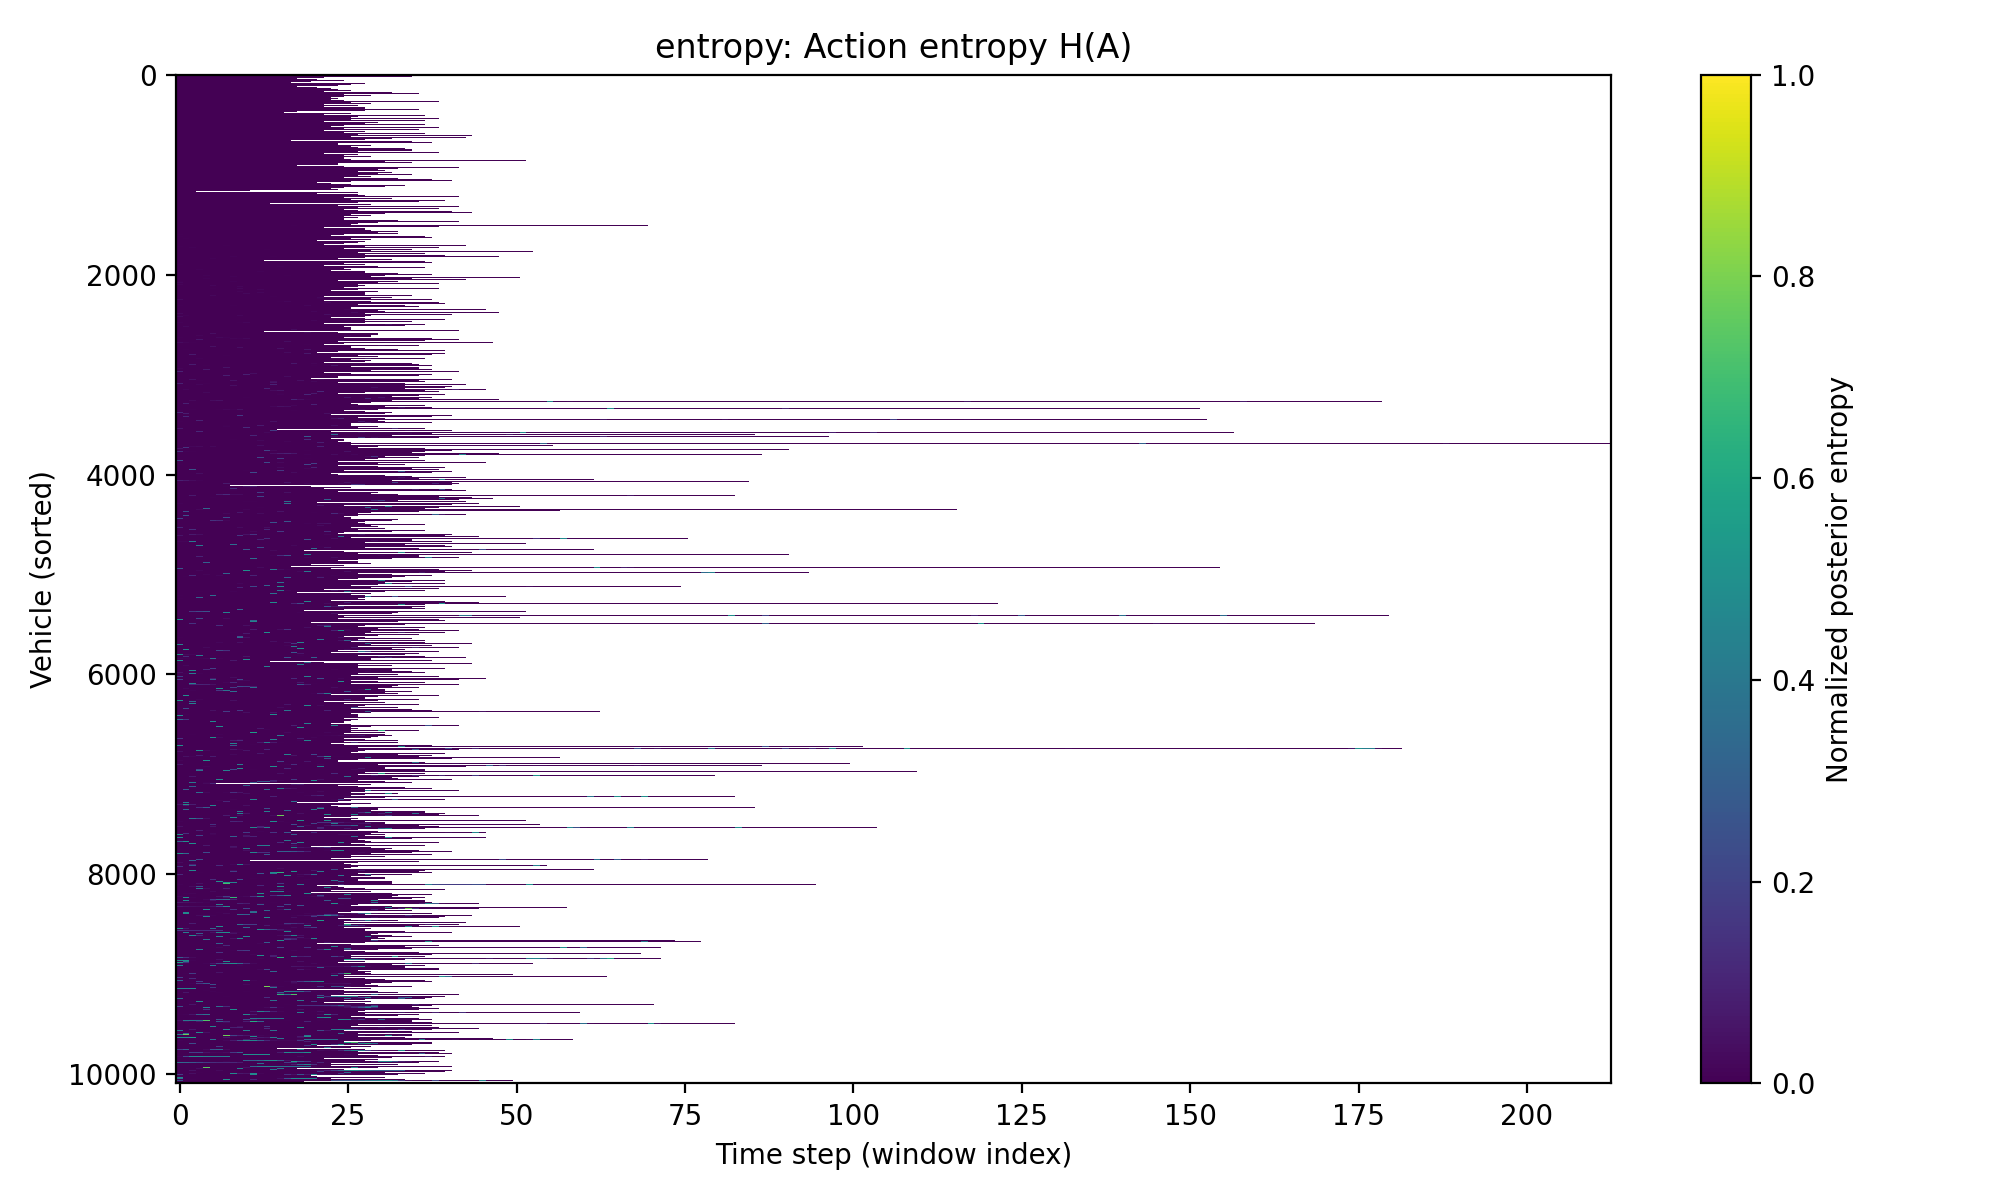
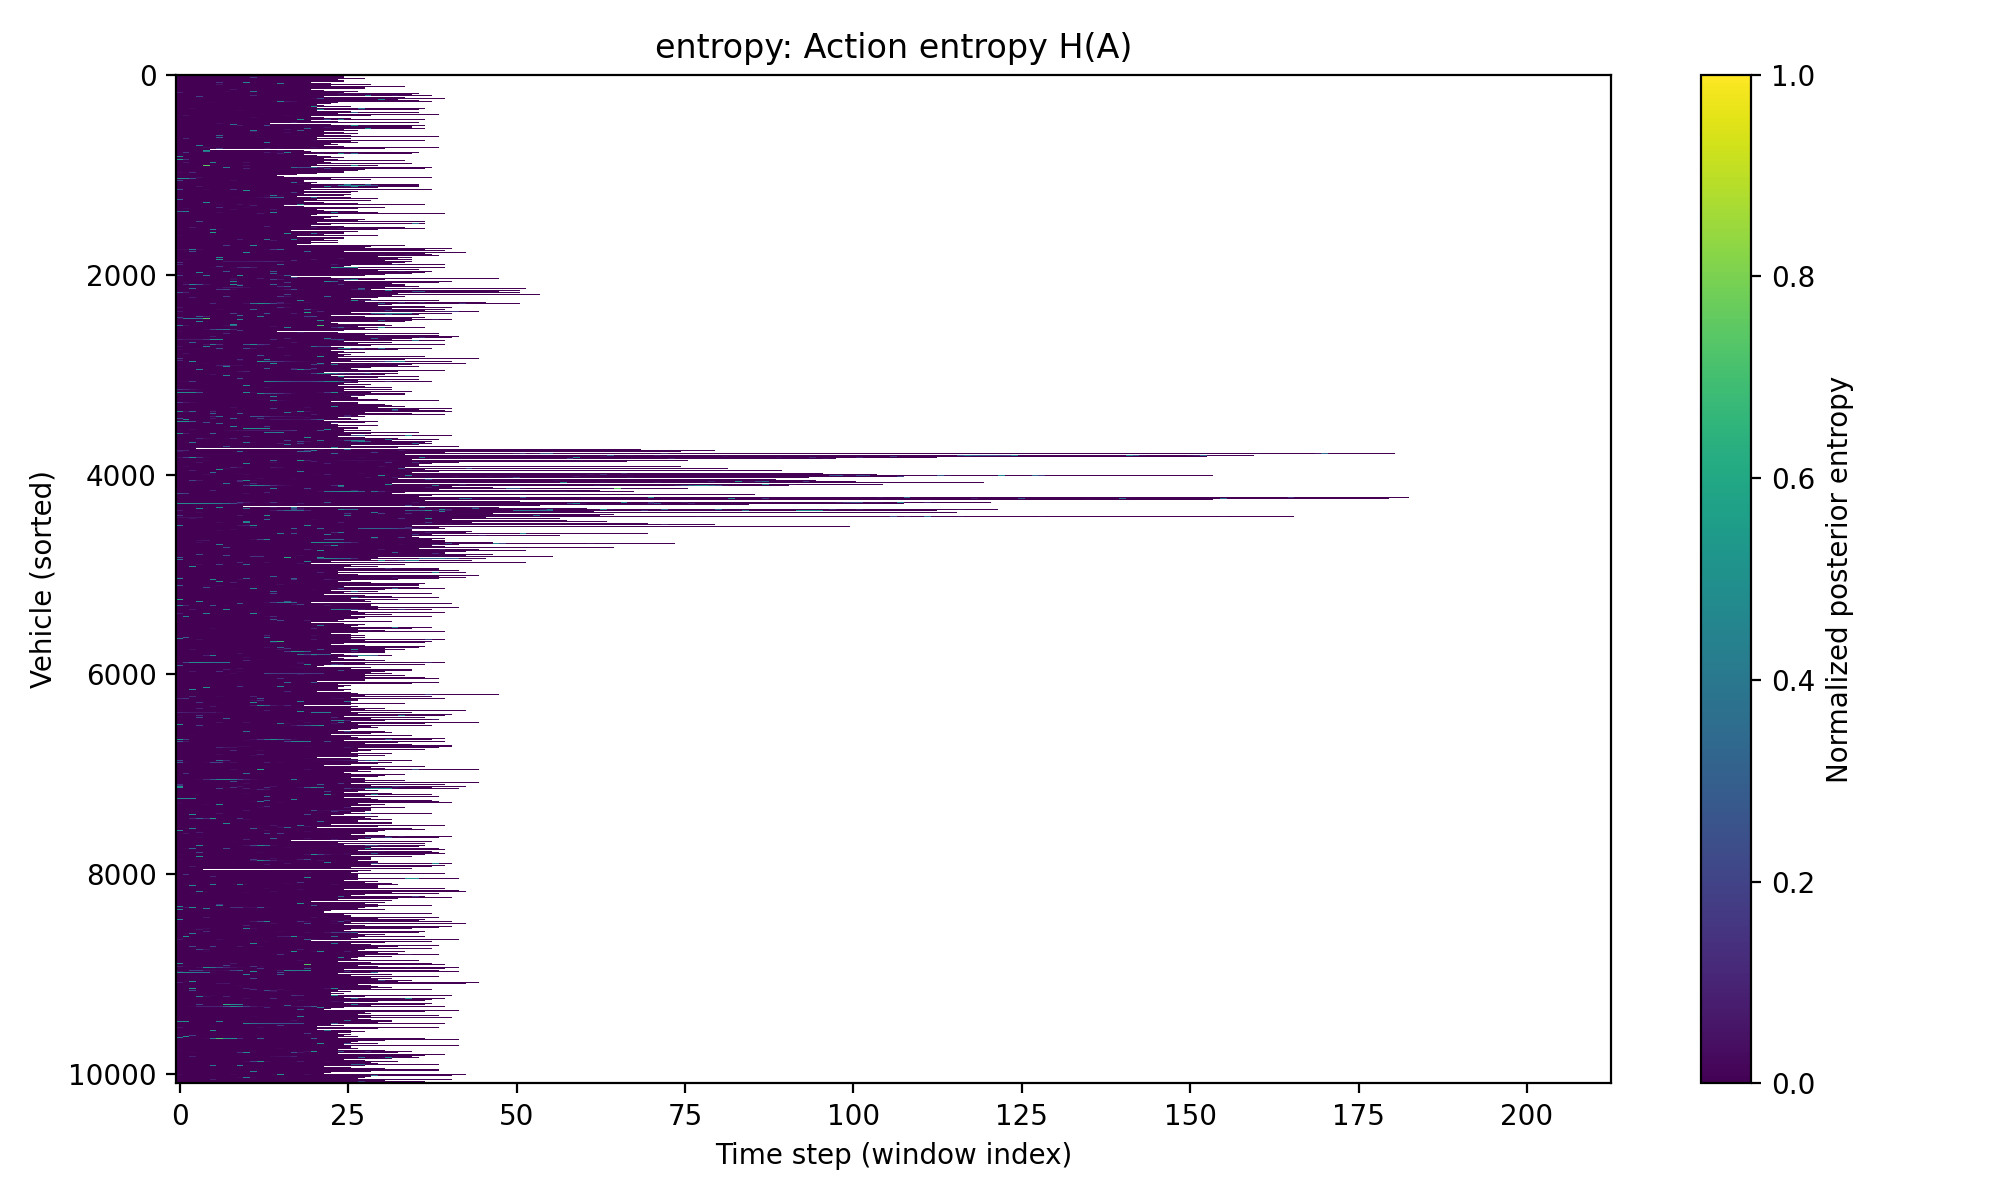
update results

Changed region(s): [[0.093, 0.0617, 0.589, 0.925]]

diff --git a/hdv/hdv_dbn/utils/eval_core.py b/hdv/hdv_dbn/utils/eval_core.py
@@ -164,7 +164,7 @@ def occupancy_and_keff(gamma_sa_seqs):
     )
 
 def plot_entropy_heatmaps(H_joint, H_style, H_action, lengths, out_dir, prefix="entropy", 
-                          sort_by="joint_mean",   # "joint_mean", "length", or None 
+                          sort_by="joint_median",   # "joint_median", "length", or None 
                           vmax=1.0,               # entropy is normalized in [0,1]
                           ):
     """
@@ -181,7 +181,7 @@ def plot_entropy_heatmaps(H_joint, H_style, H_action, lengths, out_dir, prefix="
         File prefix for outputs.
     sort_by
         Row ordering strategy:
-          - "joint_mean": sort by mean joint entropy per vehicle (ascending)
+          - "joint_median": sort by median joint entropy per vehicle (ascending)
           - "length": sort by sequence length (descending)
           - None: keep original order
     vmax
@@ -196,8 +196,8 @@ def plot_entropy_heatmaps(H_joint, H_style, H_action, lengths, out_dir, prefix="
         return {}
 
     # Sorting (stable across runs if you keep same input order)
-    if sort_by == "joint_mean":
-        row_score = np.nanmean(H_joint, axis=1)
+    if sort_by == "joint_median":
+        row_score = np.nanmedian(H_joint, axis=1)
         order = np.argsort(row_score)  # low -> high uncertainty
     elif sort_by == "length":
         order = np.argsort(-lengths)   # long -> short
